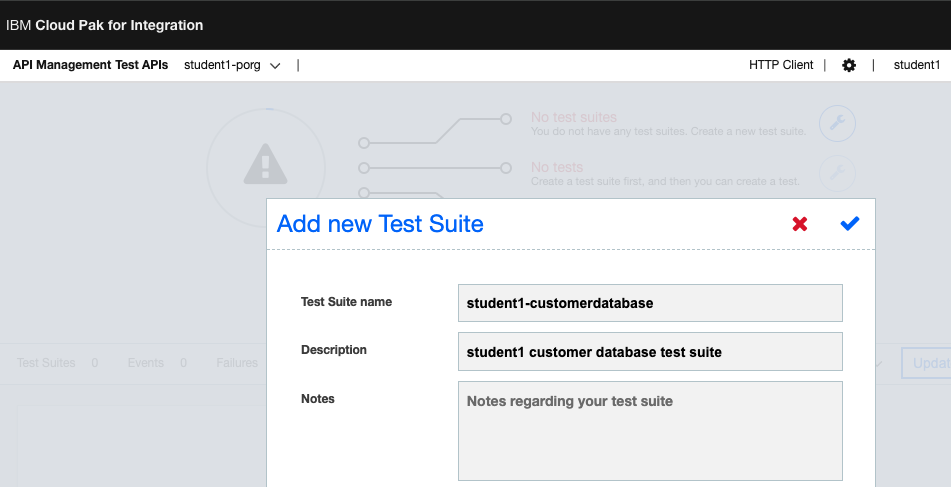
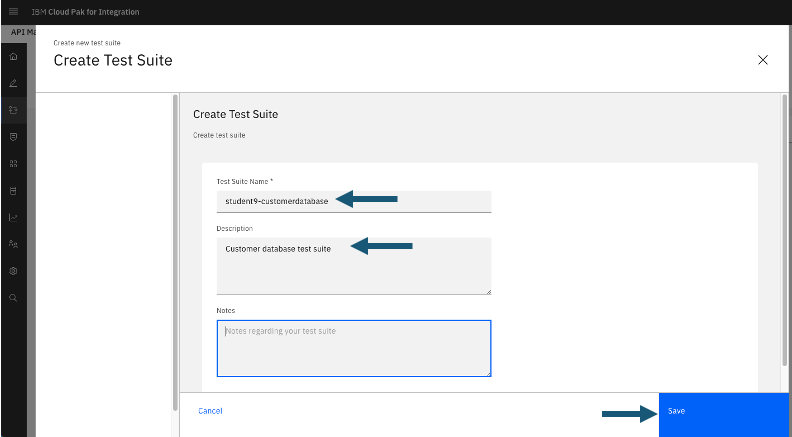
Update APIC labs

diff --git a/APIC-labs/OAuth-Versioning/ReadMe copy.md b/APIC-labs/OAuth-Versioning/ReadMe copy.md
@@ -511,12 +511,19 @@ In this section, you will test the new version of the API to ensure that OAuth i
 
 ![alt text][pic81]
 
-17\. Confirm that your application is shown in the **API Key** and enter your application secret for the **API Secret**.
+17\. **SKIP THIS STEP. Get Token ISN'T WORKING, FIX IS SCHEDULED FOR THE NEXT RELEASE. FOR NOW, WE WILL TEST USING CURL instead.** <br>
+
+Confirm that your application is shown in the **API Key** and enter your application secret for the **API Secret**.
 
 ![alt text][pic88]
 
-18\. 
-In the **Username** field, enter **student(n)**.  In the **Password** field, enter **passw0rd**.  Select **customer** for the **Scopes**.
+18\. <br>
+** Copy the GET /customers URL and save to Scratchpad or Notepad. ** <br>
+** Copy the "token url" and save to Scratchpad or notepad.**
+
+
+**SKIP TO NEXT STEP.** <br>
+In the **Username** field, enter **studentx**.  In the **Password** field, enter **password**.  Select **customer** for the **Scopes**.
 
 Recall that when we configured the OAuth API, we provided an Authentication URL as the method for validating the user credentials.
 
@@ -524,30 +531,22 @@ Click **Get Token**.
 
 ![alt text][pic89]
 
-19\. 
+19\. **SKIP THIS STEP** <br>
 The API Portal will call out to the OAuth Token URL with your client credentials and user credentials.  The OAuth API will intercept the request, validate the credentials, and generate a token. 
 
 ![alt text][pic92] 
 
-20\. 
+20\. **SKIP THIS STEP** <br>
 Click **Send** to invoke the API. The request will include the OAuth bearer token in the Authorization header.
 
 ![alt text][pic93]
 
-21\. 
+21\. **SKIP THIS STEP** <br>
 Scroll down to see the call results.
 
 ![alt text][pic94]
 
-
-
-21a\. TESTING WITH CURL (Optional)
-
-** From the developer portal **
-** Copy the GET /customers URL and save to Scratchpad or Notepad. ** <br>
-** Copy the "token url" and save to Scratchpad or notepad.**
-
-Get Token using CURL command <br>
+21a\. Get Token using CURL command <br>
 <br>
 Open a Terminal or Command Line window.<br>
 

diff --git a/APIC-labs/TestAPIs-SmartGenerator/ReadMe-v1.md b/APIC-labs/TestAPIs-SmartGenerator/ReadMe-v1.md
@@ -48,30 +48,14 @@ Click on the "Test APIs" tile. <br>
 
 ![Alt text](./images/image-2.png)
 
-Click **"Add test suite"**. <br>
+Click **"Create Test Suite"**. <br>
+
+![Alt text](./images/image-3.png)
 
 Test Suite name: student(n)-customerdatabase <br>
 Description: student(n) customer database test suite.<br>
 
-![Alt text](./images/image-3.png)
-
-Click Save.<br>
-
-![alt text](./images/image-3a.png)
-
-Click on the Test Suite tile that you just created.<br>
-
-![alt text](./images/image-4a.png)
-
-![alt text](./images/image-4b.png)
-![alt text](./images/image-4c.png)
-![alt text](./images/image-4d.png)
-![alt text](./images/image-4e.png)
-![alt text](./images/image-4f.png)
-![alt text](./images/image-4g.png)
-
-xxxx
-
+Click correct tick mark (on top right).<br>
 
 ![Alt text](./images/image-4.png)
 

diff --git a/APIC-labs/Developer-Portal/ReadMe.md b/APIC-labs/Developer-Portal/ReadMe.md
@@ -118,7 +118,6 @@ Next fill out the form and an activation email will be sent to you.  Click **Sig
 11\.<a name="step11"></a> You can log into the Developer Portal using the pre-defined Consumer account or the Consumer account that you just created.  Click on **Sign in** on the Dev Portal screen in the upper right corner.  
 
 ![alt text][pic19a]
-![alt text](image.png)
 
 12\. The Sign in screen will pop up and you will log in with your Consumer username and password. Login as **student(n)dev** and password **passw0rd**.
 

diff --git a/APIC-labs/Create-and-Secure/ReadMe.md b/APIC-labs/Create-and-Secure/ReadMe.md
@@ -43,7 +43,6 @@ In this tutorial, you will explore the following key capabilities:
 -   Publish an API for developers
 
 ![alt text](./images/apic-lab1-component-diagram.png)
-![alt text](image.png)
 
 
 # 2. Deploying the REST Services <a name="deploy"></a>
